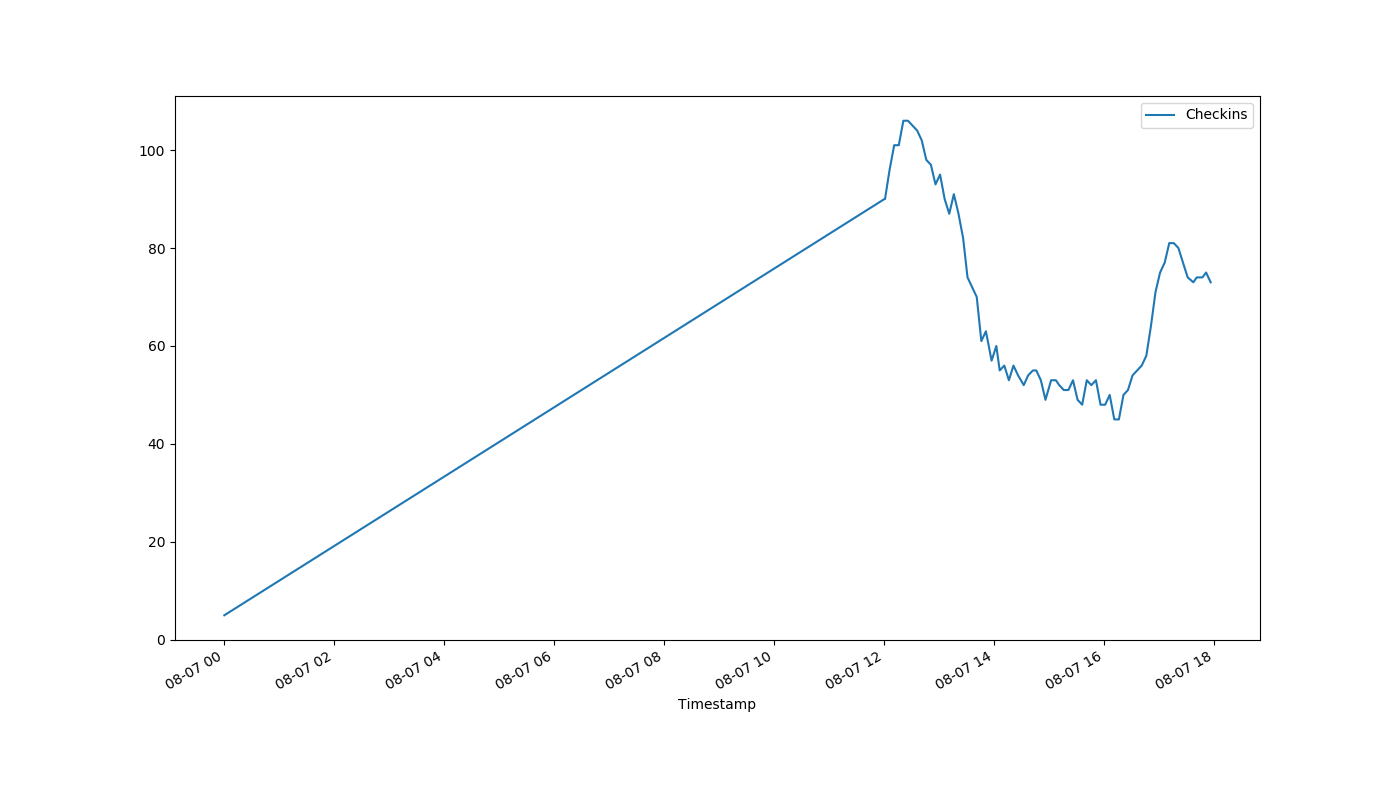
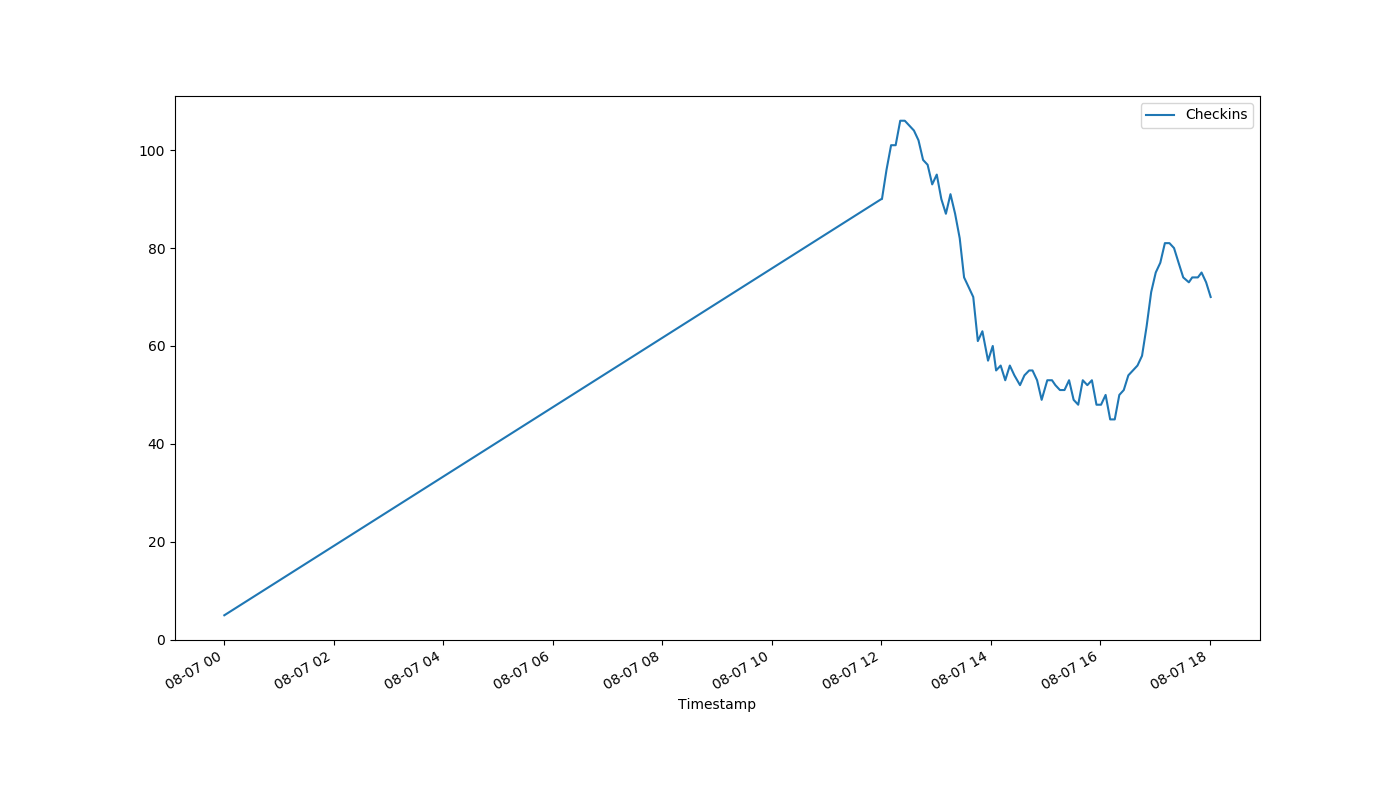
auto-Aug-07-18:02:55

diff --git a/index.html b/index.html
@@ -1,1 +1,1 @@
-<!DOCTYPE html><html><head><meta http-equiv="refresh" content="30"><link rel='stylesheet' href='holmcurrent.css'></head><body><p id='count'>73</p><div id='graph-wrap'><img id='graph' src='holmgraph-Aug-07.png'></div><p id='updated'>Last updated 17:57:03 / 17:56:17</p></body></html>
+<!DOCTYPE html><html><head><meta http-equiv="refresh" content="30"><link rel='stylesheet' href='holmcurrent.css'></head><body><p id='count'>70</p><div id='graph-wrap'><img id='graph' src='holmgraph-Aug-07.png'></div><p id='updated'>Last updated 18:02:03 / 18:01:17</p></body></html>
